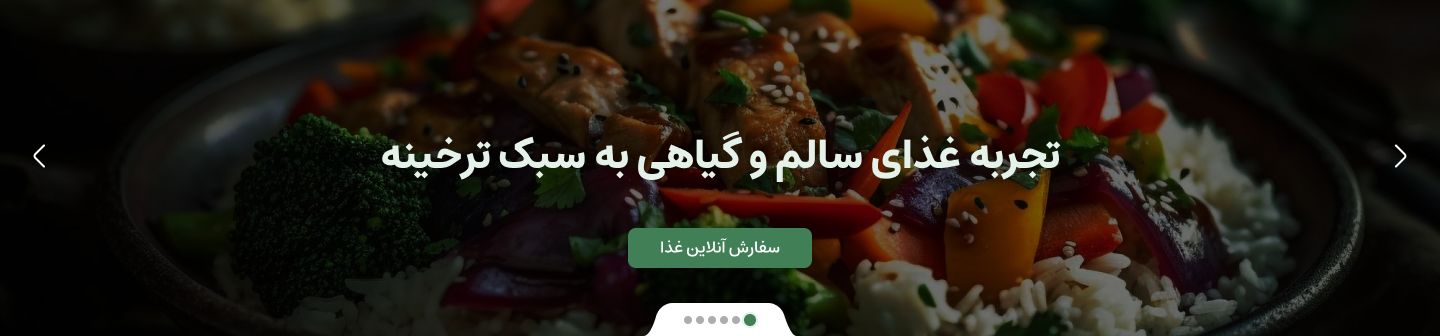
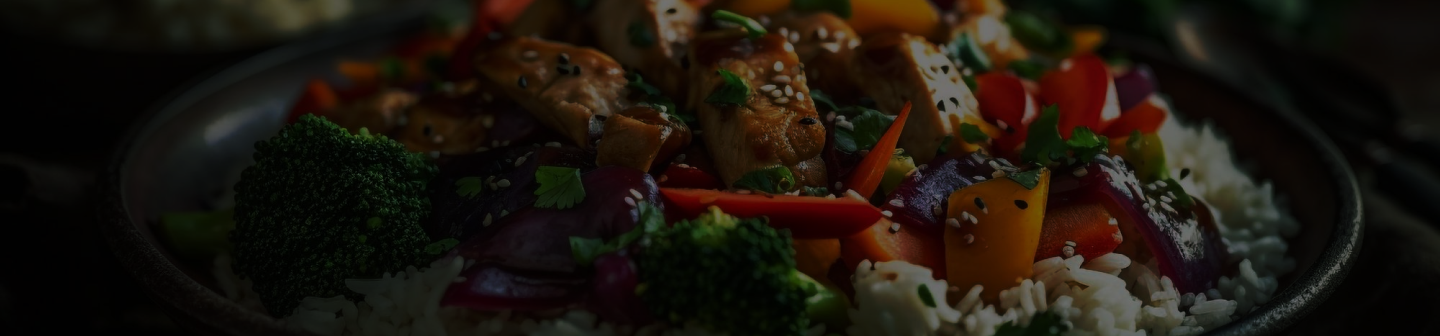
0.0.2

Changed region(s): [[0.25, 0.3869, 0.75, 0.5357], [0.4375, 0.6548, 0.5625, 0.8036], [0.4375, 0.8929, 0.5625, 1.0]]

diff --git a/index.html b/index.html
@@ -82,7 +82,10 @@
                         </svg>
                     </div>
                 </nav>
-                <img src="./image/Slider.png" alt="" class="slider">
+                <div class="slider">
+                    <h1>تجربه غذای سالم و گیاهی به سبک ترخینه</h1>
+                    <button>سفارش آنلاین غذا</button>
+                </div>
             </header>
             <h2>منوی رستوران</h2>
             <div class="meno-contianer">
@@ -112,10 +115,56 @@
                     <p>
                         مهماننوازی یکی از مهمترین مشخصههای ایرانیان است و باعث افتخار ماست که بیش از 20 سال است خدمتگزار مردم شریف ایران هستیم. ما در رستورانهای زنجیرهای ترخینه همواره تلاش کردیم که در محیطی اصیل بر پایه معماری و طراحی مدرن در کنار طبیعتی دلنواز، غذایی سالم و درخور شان شما عزیزان ارائه دهیم.
                     </p>
-                    <button>اطلاعات بیشتر</button>
+                    <button>
+                        اطلاعات بیشتر
+                        <svg width="25" height="24" viewBox="0 0 25 24" fill="none" xmlns="http://www.w3.org/2000/svg">
+                            <path d="M15.5003 20.67C15.3103 20.67 15.1203 20.6 14.9703 20.45L8.45027 13.93C7.39027 12.87 7.39027 11.13 8.45027 10.07L14.9703 3.55002C15.2603 3.26002 15.7403 3.26002 16.0303 3.55002C16.3203 3.84002 16.3203 4.32002 16.0303 4.61002L9.51027 11.13C9.03027 11.61 9.03027 12.39 9.51027 12.87L16.0303 19.39C16.3203 19.68 16.3203 20.16 16.0303 20.45C15.8803 20.59 15.6903 20.67 15.5003 20.67Z" fill="white"/>
+                        </svg>
+                    </button>
                 </div>
                 <div class="aboutContianer__leftPart">
-                    
+                    <div class="aboutContianer__leftPart--items">
+                        <div class="items__logo">
+                            <svg width="48" height="48" viewBox="0 0 48 48" fill="none" xmlns="http://www.w3.org/2000/svg">
+                                <path d="M24 25.5C17.66 25.5 12.5 20.34 12.5 14C12.5 7.66 17.66 2.5 24 2.5C30.34 2.5 35.5 7.66 35.5 14C35.5 20.34 30.34 25.5 24 25.5ZM24 5.5C19.32 5.5 15.5 9.32 15.5 14C15.5 18.68 19.32 22.5 24 22.5C28.68 22.5 32.5 18.68 32.5 14C32.5 9.32 28.68 5.5 24 5.5Z" fill="white"/>
+                                <path d="M41.1803 45.5C40.3603 45.5 39.6803 44.82 39.6803 44C39.6803 37.1 32.6403 31.5 24.0003 31.5C15.3603 31.5 8.32031 37.1 8.32031 44C8.32031 44.82 7.64031 45.5 6.82031 45.5C6.00031 45.5 5.32031 44.82 5.32031 44C5.32031 35.46 13.7003 28.5 24.0003 28.5C34.3003 28.5 42.6803 35.46 42.6803 44C42.6803 44.82 42.0003 45.5 41.1803 45.5Z" fill="white"/>
+                            </svg>
+                        </div>
+                        <p>پرسنلی مجرب و حرفهای</p>
+                    </div>
+                    <div class="aboutContianer__leftPart--items">
+                        <div class="items__logo">
+                            <svg width="48" height="48" viewBox="0 0 48 48" fill="none" xmlns="http://www.w3.org/2000/svg">
+                                <path d="M44 45.5H10C5.86 45.5 2.5 42.14 2.5 38V4C2.5 3.18 3.18 2.5 4 2.5C4.82 2.5 5.5 3.18 5.5 4V38C5.5 40.48 7.52 42.5 10 42.5H44C44.82 42.5 45.5 43.18 45.5 44C45.5 44.82 44.82 45.5 44 45.5Z" fill="white"/>
+                                <path d="M9.99964 35.5C9.65964 35.5 9.29964 35.38 9.01964 35.14C8.39964 34.6 8.31964 33.66 8.85964 33.02L18.0396 22.3C19.0396 21.14 20.4796 20.44 21.9996 20.38C23.5196 20.34 25.0196 20.9 26.0996 21.98L27.9996 23.88C28.4996 24.38 29.1396 24.62 29.8596 24.62C30.5596 24.6 31.1996 24.28 31.6596 23.74L40.8396 13.02C41.3796 12.4 42.3196 12.32 42.9596 12.86C43.5796 13.4 43.6596 14.34 43.1196 14.98L33.9396 25.7C32.9396 26.86 31.4996 27.56 29.9796 27.62C28.4396 27.66 26.9596 27.1 25.8796 26.02L23.9996 24.12C23.4996 23.62 22.8396 23.36 22.1396 23.38C21.4396 23.4 20.7996 23.72 20.3396 24.26L11.1596 34.98C10.8396 35.32 10.4196 35.5 9.99964 35.5Z" fill="white"/>
+                            </svg>
+                        </div>
+                        <p>کیفیت بالای غذاها</p>
+                    </div>
+                    <div class="aboutContianer__leftPart--items">
+                        <div class="items__logo">
+                            <svg width="48" height="48" viewBox="0 0 48 48" fill="none" xmlns="http://www.w3.org/2000/svg">
+                                <path d="M35.1997 45.12H12.7997C9.15966 45.12 5.83966 42.3199 5.23966 38.7199L2.57969 22.8C2.15969 20.32 3.3597 17.14 5.3397 15.56L19.1997 4.45988C21.8797 2.29988 26.0997 2.3199 28.7997 4.4799L42.6596 15.56C44.6196 17.14 45.8197 20.32 45.4197 22.8L42.7597 38.7199C42.1597 42.2599 38.7797 45.12 35.1997 45.12ZM23.9797 5.8798C22.9197 5.8798 21.8597 6.19999 21.0797 6.81999L7.21964 17.9198C6.07964 18.8398 5.29965 20.88 5.53965 22.32L8.19968 38.2399C8.55968 40.3399 10.6597 42.12 12.7997 42.12H35.1997C37.3397 42.12 39.4397 40.3399 39.7997 38.2199L42.4597 22.3C42.6997 20.86 41.8997 18.7998 40.7797 17.8998L26.9197 6.81999C26.1197 6.19999 25.0597 5.8798 23.9797 5.8798Z" fill="white"/>
+                                <path d="M28.2401 30.2599C27.8601 30.2599 27.5001 30.12 27.2001 29.84C25.2601 27.98 22.7401 27.98 20.7801 29.84C20.1801 30.42 19.2401 30.3999 18.6601 29.7999C18.0801 29.1999 18.1001 28.2598 18.7001 27.6798C21.8001 24.6998 26.1401 24.6998 29.2601 27.6798C29.8601 28.2598 29.8801 29.1999 29.3001 29.7999C29.0401 30.0999 28.6401 30.2599 28.2401 30.2599Z" fill="white"/>
+                                <path d="M32.4797 26.0201C32.0997 26.0201 31.7198 25.8802 31.4398 25.6002C30.4998 24.6802 29.4398 23.94 28.3198 23.4C25.5198 22.06 22.4598 22.06 19.6798 23.4C18.5598 23.94 17.5198 24.6802 16.5598 25.6002C15.9798 26.1802 15.0198 26.1801 14.4398 25.5801C13.8598 24.9801 13.8798 24.04 14.4598 23.46C15.6398 22.3 16.9598 21.38 18.3798 20.7C21.9998 18.96 25.9997 18.96 29.5997 20.7C31.0197 21.38 32.3398 22.3 33.5198 23.46C34.1198 24.04 34.1197 24.9801 33.5397 25.5801C33.2597 25.8601 32.8797 26.0201 32.4797 26.0201Z" fill="white"/>
+                                <path d="M24.0001 35C23.4801 35 22.9801 34.8 22.5801 34.42C21.8001 33.64 21.8001 32.3801 22.5801 31.6001C23.3601 30.8201 24.6401 30.8201 25.4201 31.6001C26.2001 32.3801 26.2001 33.64 25.4201 34.42C25.0201 34.8 24.5201 35 24.0001 35Z" fill="white"/>
+                            </svg>    
+                        </div>
+                        <p>محیطی دلنشین و آرام</p>
+                    </div>
+                    <div class="aboutContianer__leftPart--items">
+                        <div class="items__logo">
+                            <svg width="48" height="48" viewBox="0 0 48 48" fill="none" xmlns="http://www.w3.org/2000/svg">
+                                <path d="M32.7599 45.5H6.47985C4.57985 45.5 2.81986 44.6201 1.67986 43.0801C0.519863 41.5201 0.179881 39.56 0.759881 37.7L9.17986 10.6399C9.93986 8.11989 12.2599 6.3999 14.8999 6.3999H39.4999C41.9199 6.3999 44.0999 7.84008 45.0199 10.0801C45.5199 11.2401 45.6199 12.5601 45.3199 13.8601L38.5799 40.9199C37.9399 43.6199 35.5399 45.5 32.7599 45.5ZM14.9199 9.41992C13.6199 9.41992 12.4399 10.28 12.0599 11.54L3.63989 38.6001C3.35989 39.5401 3.51987 40.5201 4.11987 41.3201C4.67987 42.0801 5.55987 42.52 6.49987 42.52H32.7799C34.1599 42.52 35.3599 41.58 35.6799 40.24L42.4199 13.1599C42.5799 12.4999 42.5399 11.84 42.2799 11.26C41.7999 10.12 40.7399 9.3999 39.5199 9.3999H14.9199V9.41992Z" fill="white"/>
+                                <path d="M41.56 45.4999H32C31.18 45.4999 30.5 44.8199 30.5 43.9999C30.5 43.1799 31.18 42.4999 32 42.4999H41.56C42.38 42.4999 43.14 42.16 43.7 41.56C44.26 40.96 44.54 40.16 44.48 39.34L42.5 12.1C42.44 11.28 43.06 10.5599 43.88 10.4999C44.7 10.4599 45.42 11.0598 45.48 11.8798L47.46 39.1201C47.58 40.7601 47 42.4 45.88 43.6C44.78 44.82 43.2 45.4999 41.56 45.4999Z" fill="white"/>
+                                <path d="M19.3595 14.2599C19.2395 14.2599 19.1195 14.2399 18.9995 14.2199C18.1995 14.0199 17.6996 13.2198 17.8996 12.3998L19.9795 3.75992C20.1795 2.95992 20.9795 2.45982 21.7995 2.65982C22.5995 2.85982 23.0996 3.65989 22.8996 4.47989L20.8196 13.12C20.6596 13.8 20.0395 14.2599 19.3595 14.2599Z" fill="white"/>
+                                <path d="M32.7599 14.28C32.6599 14.28 32.5399 14.2799 32.4399 14.2399C31.6399 14.0599 31.1199 13.2599 31.2799 12.4599L33.1598 3.77997C33.3398 2.95997 34.1399 2.46006 34.9399 2.62006C35.7399 2.78006 36.2598 3.59985 36.0998 4.39985L34.2198 13.08C34.0798 13.8 33.4599 14.28 32.7599 14.28Z" fill="white"/>
+                                <path d="M31.4004 25.5H15.4004C14.5804 25.5 13.9004 24.82 13.9004 24C13.9004 23.18 14.5804 22.5 15.4004 22.5H31.4004C32.2204 22.5 32.9004 23.18 32.9004 24C32.9004 24.82 32.2204 25.5 31.4004 25.5Z" fill="white"/>
+                                <path d="M29.4004 33.5H13.4004C12.5804 33.5 11.9004 32.82 11.9004 32C11.9004 31.18 12.5804 30.5 13.4004 30.5H29.4004C30.2204 30.5 30.9004 31.18 30.9004 32C30.9004 32.82 30.2204 33.5 29.4004 33.5Z" fill="white"/>
+                                </svg>                                
+                        </div>
+                        <p>منوی متنوع</p>
+                    </div>
                 </div>
 
             </div>

diff --git a/style/style.scss b/style/style.scss
@@ -55,7 +55,30 @@ main{
                 }    
             }
             .slider{
-                width: 100%;
+                width: 100vw;
+                height: 336px;
+                @include flex(center,center,column );
+                gap: 40px;
+                background-image: url(../image/Slider.png);
+                h1{
+                    font-family: E-extrabold;
+                    color: $textColor;
+                    line-height: 140%;
+                    font-size: 40px;
+                }
+                button{
+                    width: 184px;
+                    height: 40px;
+                    padding: 8px 16px;
+                    border-radius: 8px;
+                    border: none;
+                    background:#417F56;
+                    color: #FFF;
+                    font-family: E-semibold;
+                    font-weight: 500;
+                    font-size: 16px;
+                    cursor: pointer;
+                }
             }
         }
         h2{
@@ -112,44 +135,58 @@ main{
     .content{
         @include flex(center,center ,column );
         .aboutContianer{
-            width: 100%;
+            width: 100vw;
             height: 390px;
-            @include flex(center,center ,column);
+            @include flex(space-around,center ,row);
             margin-top: 80px;
-            background-color: #000000A6;
-            overflow: hidden;
-            img{
-                width: 1440px;
-                position: relative;
-                top: -90px;
-                z-index: -1;
-            }
-            .aboutContianer__rightPart{
-                width: 600px;
-                height: 238px;
-                font-family: E-regular;
-                position: relative;
-                bottom: 200px;
-                right: 108px;
-                z-index: 2;
-
+            padding: 48px 7.5%;
+            
+            color: #fff;
+            background-image: url(../image/about.png);
+            .aboutContianer__rightPaet{
+                width: 570px;
+                height: 294px;
+                @include flex(space-evenly,flex-start,column );
                 h2{
-                    @include about-item;
-                    color: $textColor;
-                    font-weight: 700;
-
+                    font-family: E-bold;
                 }
                 p{
-                    color: $textColor;
+                    font-family: E-regular;
+                    font-size: 20px;
                     font-weight: 400;
+                    line-height: 180%;
                 }
                 button{
-                    color: $textColor;
+                    width: 184px;
+                    height: 40px;
                     background-color: #ffffff00;
+                    color: #fff;
+                    padding: 8px 16px;
+                    border-radius: 4px;
+                    border: 1px solid #FFF;
+                    align-self: flex-end;
+                    @include flex(center,center,row );
+                    font-family: E-regular;
+                    font-size: 16px;
+                    font-weight: 500;
+
                 }
             }
+            .aboutContianer__leftPart{
+                width: 33vw;
+                @include flex(center,center,row);
+                gap: 24px;
+                .aboutContianer__leftPart--items{
+                    width: 184px;
+                    height: 136px;
+                    @include flex(space-evenly,center,column);
+                    font-family:E-regular;
+                    font-size: 18px;
+                    font-weight: 400;
+                }
+            }
+
         }
-        //I cant make aboutContianer helpp me.
         .cards-main-titel{
             font-family: E-bold;
             font-weight: 700;

diff --git a/style/style.css b/style/style.css
@@ -94,7 +94,34 @@ main .hero header nav .left-part svg:nthchild(1) {
   background: var(--green-green-tint-1, #E5F2E9);
 }
 main .hero header .slider {
-  width: 100%;
+  width: 100vw;
+  height: 336px;
+  display: flex;
+  justify-content: center;
+  align-items: center;
+  flex-direction: column;
+  flex-wrap: wrap;
+  gap: 40px;
+  background-image: url(../image/Slider.png);
+}
+main .hero header .slider h1 {
+  font-family: E-extrabold;
+  color: #fff;
+  line-height: 140%;
+  font-size: 40px;
+}
+main .hero header .slider button {
+  width: 184px;
+  height: 40px;
+  padding: 8px 16px;
+  border-radius: 8px;
+  border: none;
+  background: #417F56;
+  color: #FFF;
+  font-family: E-semibold;
+  font-weight: 500;
+  font-size: 16px;
+  cursor: pointer;
 }
 main .hero h2 {
   font-family: E-regular;
@@ -157,45 +184,74 @@ main .content {
   flex-wrap: wrap;
 }
 main .content .aboutContianer {
-  width: 100%;
+  width: 100vw;
   height: 390px;
+  display: flex;
+  justify-content: space-around;
+  align-items: center;
+  flex-direction: row;
+  flex-wrap: wrap;
+  margin-top: 80px;
+  padding: 48px 7.5%;
+  color: #fff;
+  background-image: url(../image/about.png);
+}
+main .content .aboutContianer .aboutContianer__rightPaet {
+  width: 570px;
+  height: 294px;
+  display: flex;
+  justify-content: space-evenly;
+  align-items: flex-start;
+  flex-direction: column;
+  flex-wrap: wrap;
+}
+main .content .aboutContianer .aboutContianer__rightPaet h2 {
+  font-family: E-bold;
+}
+main .content .aboutContianer .aboutContianer__rightPaet p {
+  font-family: E-regular;
+  font-size: 20px;
+  font-weight: 400;
+  line-height: 180%;
+}
+main .content .aboutContianer .aboutContianer__rightPaet button {
+  width: 184px;
+  height: 40px;
+  background-color: rgba(255, 255, 255, 0);
+  color: #fff;
+  padding: 8px 16px;
+  border-radius: 4px;
+  border: 1px solid #FFF;
+  align-self: flex-end;
   display: flex;
   justify-content: center;
   align-items: center;
+  flex-direction: row;
+  flex-wrap: wrap;
+  font-family: E-regular;
+  font-size: 16px;
+  font-weight: 500;
+}
+main .content .aboutContianer .aboutContianer__leftPart {
+  width: 33vw;
+  display: flex;
+  justify-content: center;
+  align-items: center;
+  flex-direction: row;
+  flex-wrap: wrap;
+  gap: 24px;
+}
+main .content .aboutContianer .aboutContianer__leftPart .aboutContianer__leftPart--items {
+  width: 184px;
+  height: 136px;
+  display: flex;
+  justify-content: space-evenly;
+  align-items: center;
   flex-direction: column;
   flex-wrap: wrap;
-  margin-top: 80px;
-  background-color: rgba(0, 0, 0, 0.6509803922);
-  overflow: hidden;
-}
-main .content .aboutContianer img {
-  width: 1440px;
-  position: relative;
-  top: -90px;
-  z-index: -1;
-}
-main .content .aboutContianer .aboutContianer__rightPart {
-  width: 600px;
-  height: 238px;
   font-family: E-regular;
-  position: relative;
-  bottom: 200px;
-  right: 108px;
-  z-index: 2;
-}
-main .content .aboutContianer .aboutContianer__rightPart h2 {
-  position: relative;
-  z-index: 4;
-  color: #fff;
-  font-weight: 700;
-}
-main .content .aboutContianer .aboutContianer__rightPart p {
-  color: #fff;
+  font-size: 18px;
   font-weight: 400;
-}
-main .content .aboutContianer .aboutContianer__rightPart button {
-  color: #fff;
-  background-color: rgba(255, 255, 255, 0);
 }
 main .content .cards-main-titel {
   font-family: E-bold;
